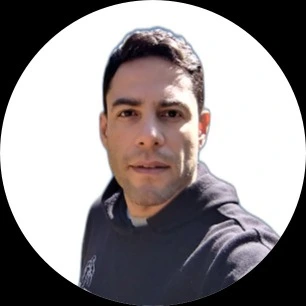
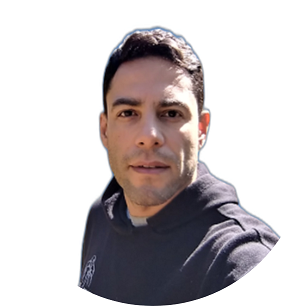
correção de foto perfil

diff --git a/templates/index.html b/templates/index.html
@@ -17,7 +17,7 @@
     <i class="bi bi-list menu-mobile"></i>
     <aside id="header">
       <section class="profile">
-        <img src="../static/img/perfil.png" alt="Foto do Marck" />
+        <img src="../static/img/perfil.webp" alt="Foto do Marck" />
         <h1>Marck Malhado</h1>
         <div class="social-links mt-4 text-center">
           <a target="_blank" href="https://github.com/marckmalhado">
